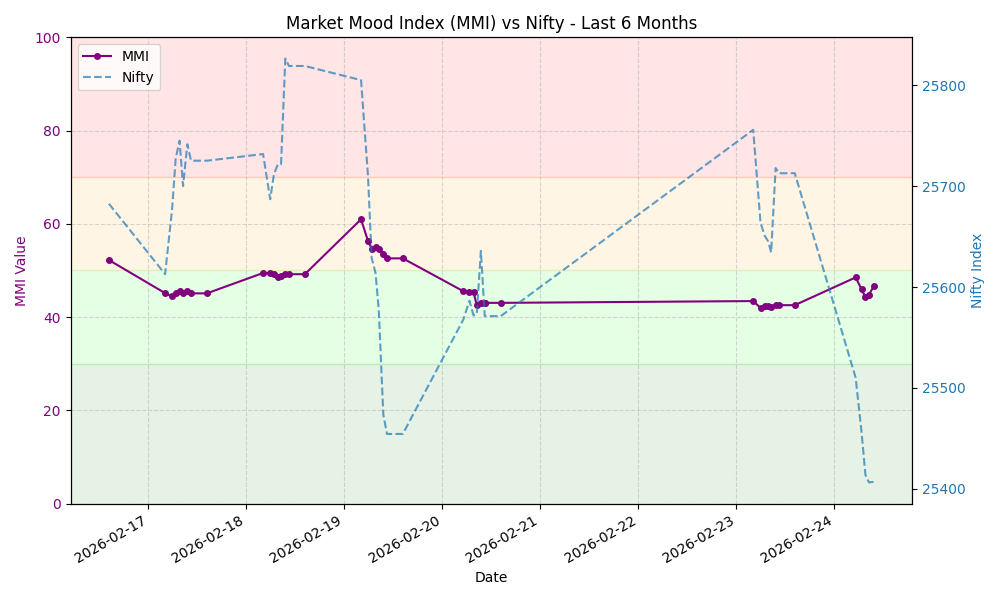
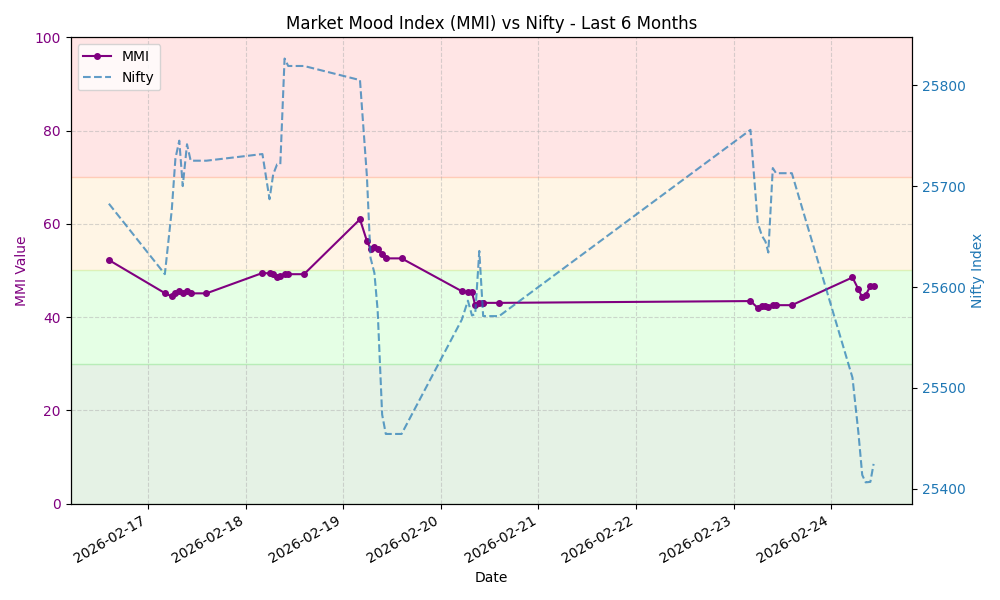
Update MMI data and chart

diff --git a/README.md b/README.md
@@ -7,8 +7,8 @@ This repository automatically fetches the MMI value, stores the history, and gen
 
 ## Latest MMI Value
 
-**46.57** - **Fear**
-<small>Last Updated: 2026-02-24 09:39 UTC</small>
+**46.68** - **Fear**
+<small>Last Updated: 2026-02-24 10:27 UTC</small>
 
 ## MMI Trend (Last 30 Days)
 
